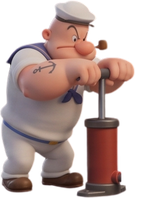
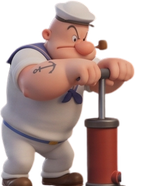
v0.20: idle/pompa saga egimi kaldirildi, yuksek ayak yere basiyor, alcak ayak kuma gomuluyor
Claude-Session: https://claude.ai/code/session_017AaaMCeVHMkA1CeuVEH2QL

Changed region(s): [[0.0, 0.0538, 0.8385, 1.0]]

diff --git a/www/js/game.js b/www/js/game.js
@@ -23,7 +23,7 @@ const YERCEKIMI = 1400, MAX_DUSME = 700;
 const REIS_HIZ = 200, KAZMA_HIZ = 110;
 // Boşta bekleme animasyonu zamanlaması (ms)
 // Pompa görselinde hortumun çıktığı nokta (görsel pikseli): [merkezden yatay, tabandan yukarı]
-const POMPA_HORTUM_CIKIS = { reis_pump0: [37, 21], reis_pump1: [39, 21] };
+const POMPA_HORTUM_CIKIS = { reis_pump0: [37, 9], reis_pump1: [39, 15] };
 const IDLE_BEKLEME_MIN = 1400, IDLE_BEKLEME_MAX = 2800;           // poz 0<->1 arası bekleme
 const IDLE_SABIR_ESIGI = 9000;                                     // bu kadar hareketsiz kalınca sabırsızlanır
 const IDLE_SABIRSIZ_MIN = 150, IDLE_SABIRSIZ_MAX = 260;            // sabırsız pozlar (2<->3): pıt pıt pıt, ikisi de kısa ve eşit

diff --git a/www/js/config.js b/www/js/config.js
@@ -1,7 +1,7 @@
 // Oyunun tüm ayarları burada. AdMob ID'lerini buraya yaz.
 window.OYUN_CONFIG = {
   oyunAdi: "DigPopeyeDug",
-  surum: "v0.19", // sağ altta görünür
+  surum: "v0.20", // sağ altta görünür
   paketAdi: "com.jawk.digpopeyedug", // Play Store'a yüklendikten sonra DEĞİŞTİRİLEMEZ
 
   reklam: {
